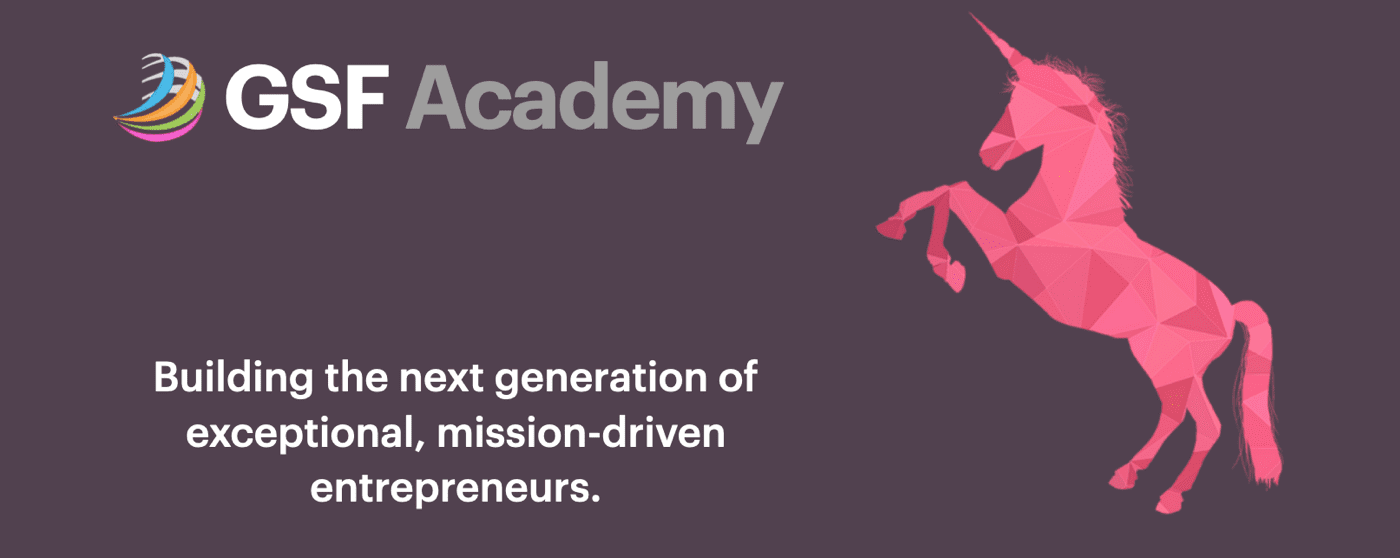
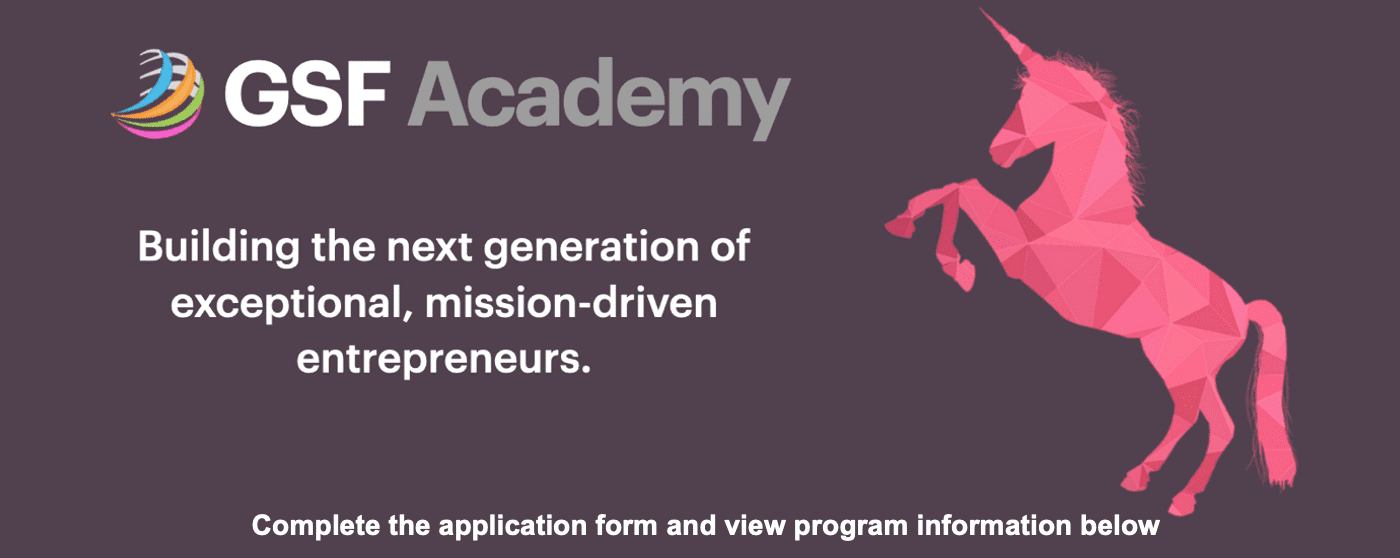
UI issues fixed as per mail

diff --git a/projects/gsf/academy.html b/projects/gsf/academy.html
@@ -84,7 +84,7 @@
                                     <p>With this program, our mission is to create a supportive community for founders,
                                        to provide access to leading tech entrepreneurs and industry professionals, and to help budding founders validate their business.
                                     </p>
-                                    <a href="http://bit.ly/gsfacademy" target="_blank" class="applynowBtn">Apply now</a>
+                                    <a href="http://bit.ly/gsfacademy" target="_blank" class="applynowNew">APPLY NOW FOR GSF ACADEMY 2022</a>
                                     <div class="pptRow">
                                        <h2>About GSF Academy 2022</h2>
                                        <div class="">
@@ -109,12 +109,21 @@
 </div>
                                                 </div>
                                              </div>
+                                             
+
                                              <div class="card">
-                                                <div class="card-header" id="faqhead3"> <a href="#" class="btn-header-link collapsed" data-toggle="collapse" data-target="#academy3" aria-expanded="true" aria-controls="faq3">When do I apply? When can I expect a response?  <img src="images/downArrow.png" alt=""></a> </div>
+                                                <div class="card-header" id="faqhead3"> <a href="#" class="btn-header-link collapsed" data-toggle="collapse" data-target="#academy3" aria-expanded="true" aria-controls="faq3">When do I apply? When can I expect a response? <img src="images/downArrow.png" alt=""></a> </div>
                                                 <div id="academy3" class="collapse" aria-labelledby="faqhead3" data-parent="#academy">
                                                    <div class="card-body"> Applications are open till 15 April 2022. We are carefully reviewing applications from founding teams across India. Startups invited to participate will be announced in the last week of April.</div>
                                                 </div>
                                              </div>
+                                             <div class="card">
+                                                <div class="card-header" id="faqhead33"> <a href="#" class="btn-header-link collapsed" data-toggle="collapse" data-target="#academy33" aria-expanded="true" aria-controls="faq33">How do I apply?  <img src="images/downArrow.png" alt=""></a> </div>
+                                                <div id="academy33" class="collapse" aria-labelledby="faqhead33" data-parent="#academy">
+                                                   <div class="card-body">Please apply <a href="https://forms.gle/dr2c8qHQncDAWaiB9" target="_blank">here</a>.</div>
+                                                </div>
+                                             </div>
+
                                              <div class="card">
                                                 <div class="card-header" id="faqhead4"> <a href="#" class="btn-header-link collapsed" data-toggle="collapse" data-target="#academy4" aria-expanded="true" aria-controls="faq4">What is the program fee? <img src="images/downArrow.png" alt=""></a> </div>
                                                 <div id="academy4" class="collapse" aria-labelledby="faqhead4" data-parent="#academy">

diff --git a/projects/gsf/css/style.css b/projects/gsf/css/style.css
@@ -725,8 +725,8 @@ a.applynowBtn {
 a.applynowBtn:hover {text-decoration: none;}
 .pptRow {
     background: #FCFDFE;
-    margin: 70px auto;
-    padding: 70px 0;
+    margin: 40px auto;
+    padding: 20px 0 0;
     text-align: center;
 }
 .pptRow h2 {
@@ -863,7 +863,20 @@ a.linkdn3 img {
     margin-bottom: 10px;
 }
 
-
+a.applynowNew {
+    background: #45C3E8;
+    border: none;
+    color: #fff;
+    font-weight: 500;
+    font-family: Helvetica Neue LT Pro;
+    padding: 13px 20px 8px;
+    font-size: 14px;
+    text-transform: uppercase;
+    border-radius: 4px;
+    margin: 0px auto;
+    width: 295px;
+    display: block;
+}
 
 
 
